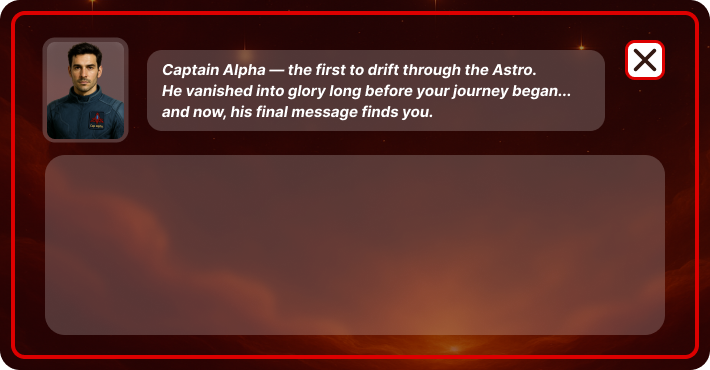
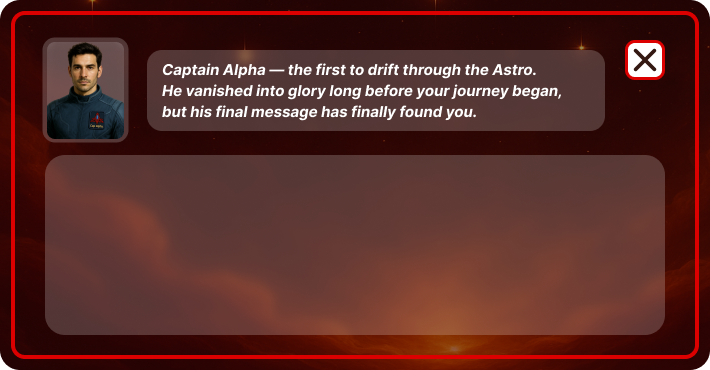
lavoro 11/10/2025 - luca

Changed region(s): [[0.2169, 0.2676, 0.6817, 0.327], [0.7746, 0.2378, 0.8056, 0.2676]]

diff --git a/core/src/codes/sorgente/Lobby/InputManager.java b/core/src/codes/sorgente/Lobby/InputManager.java
@@ -12,7 +12,6 @@ import com.badlogic.gdx.Gdx;
 import com.badlogic.gdx.Input;
 import com.badlogic.gdx.InputProcessor;
 import com.badlogic.gdx.math.Rectangle;
-import sorgente.Missions.CheckRTG;
 import sorgente.UserData.DataUserManager;
 import sorgente.Entities.Avatar;
 import sorgente.Entities.Spacecraft;
@@ -31,7 +30,6 @@ import java.util.HashMap;
 import java.util.Map;
 import java.util.Set;
 
-import static sorgente.LogInSignUp.AuthAlgorithms.checkInternetConnection;
 
 public class InputManager implements InputProcessor {
     // mappa dei range
@@ -183,7 +181,7 @@ public class InputManager implements InputProcessor {
         for (int i=0; i<5; i++) {
             cont++;
         }
-        if (cont==4) isGameCompleted=true;
+        if (cont==5) isGameCompleted=true;
     }
 
     // ************************************** //
@@ -683,6 +681,7 @@ public class InputManager implements InputProcessor {
             }
             // X wise man => chiusura pagina wise man
             if (secondScreen && open23 && (screenX >= 761 && screenX <= 801) && (screenY >= 204 && screenY <= 244)) {
+                SoundManager.playClickButton(soundPercent); // riproduzione suono click
                 secondScreen = open23 = false;
             }
 

diff --git a/core/src/codes/sorgente/Lobby/UIManager.java b/core/src/codes/sorgente/Lobby/UIManager.java
@@ -878,10 +878,9 @@ public class UIManager implements ResourceLoader {
                 screen.draw(mapLobby.get(23), 145, 165);
 
                 // messaggio cap alpha in giallo
-                fontBoldItalicYellow20.draw(screen, "“The key to true success lies in patience and perseverance.\n" +
-                    "And remember, never stop exploring.”", 208, 357);
+                fontBoldItalicYellow20.draw(screen, "“The key to true success lies in patience and perseverance”", 208, 357);
                 // testi sotto in bianco
-                fontBoldItalicWhite20.draw(screen, "— Cap. Alpha", 208, 305);
+                fontBoldItalicWhite20.draw(screen, "Cap. Alpha", 208, 330);
                 fontBoldWhite20.draw(screen, "Congratulations " + AuthAlgorithms.nickname + ", the journey has come to an end.", 208, 272);
                 fontBoldWhite20.draw(screen, "Your glory will be remembered forever.", 208, 245);
             }
